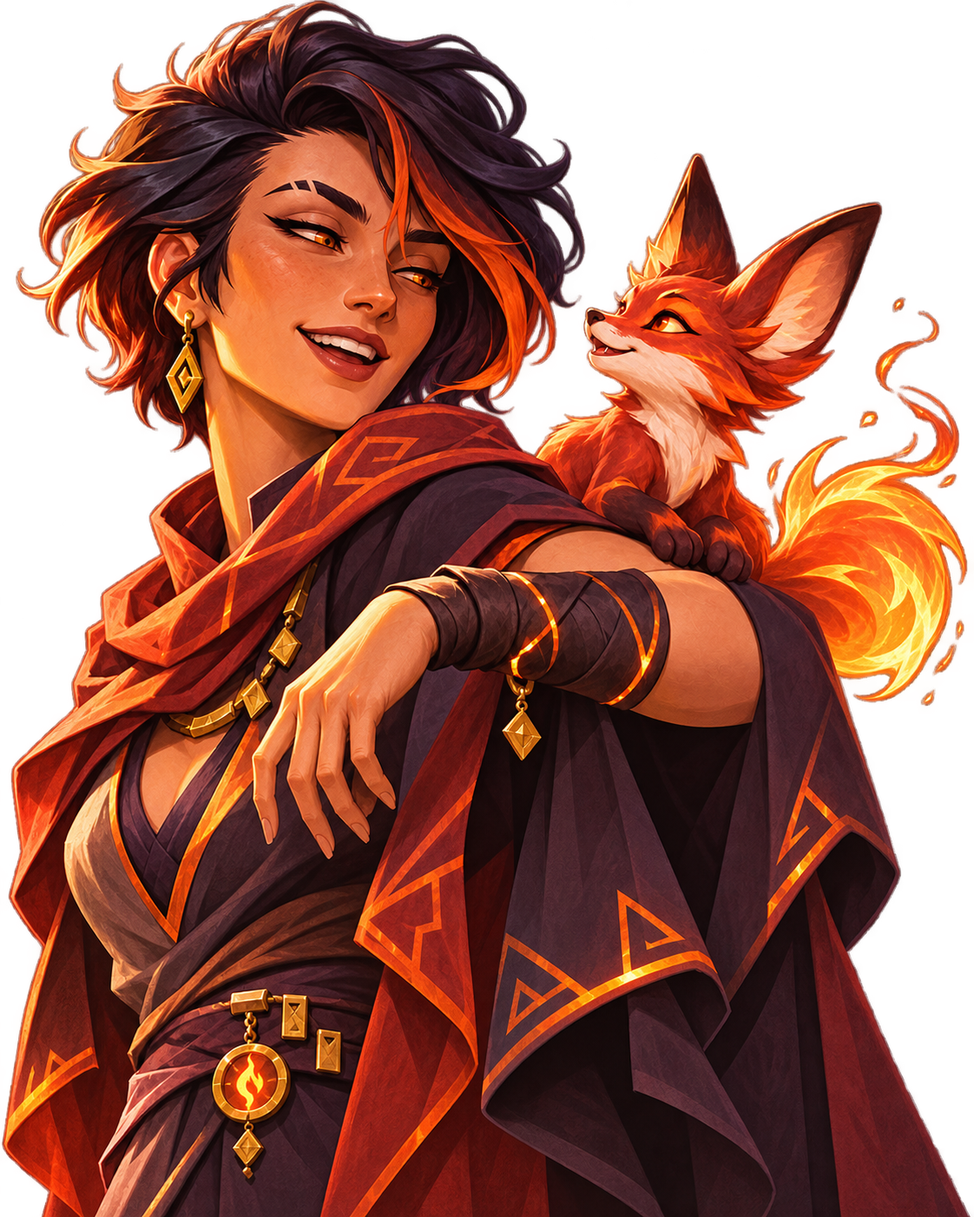
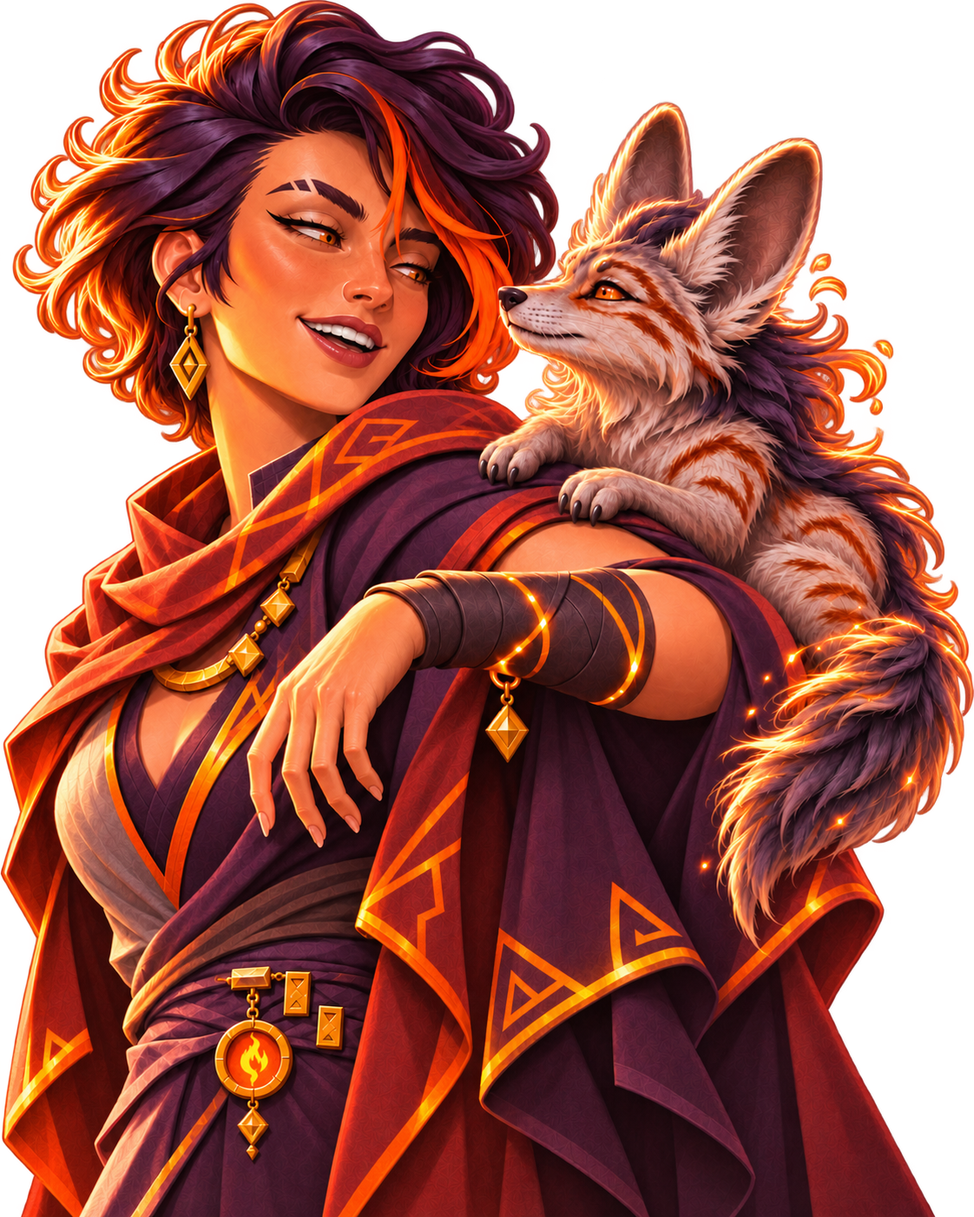
Add ashstride and update Pyrra and Spark story

diff --git a/riftoryn-menu.html b/riftoryn-menu.html
@@ -12,7 +12,7 @@
 <section class="screen" id="codex"><div class="sectionhead"><div><div class="eyebrow">✦ &nbsp; Poznaj świat gry</div><h1 class="title">KODEKS RIFTORYN</h1><p class="subtitle">Bohaterowie, technologie i zasady w jednym miejscu.</p></div></div><div class="codexnav" role="tablist" aria-label="Sekcje kodeksu"><button class="tab active" data-tab="heroes">Bohaterowie</button><button class="tab" data-tab="towers">Wieże</button><button class="tab" data-tab="tree">Drzewko technologii</button><button class="tab" data-tab="statuses">Statusy</button><button class="tab" data-tab="elements">Żywioły i obrażenia</button><button class="tab" data-tab="map">Mapa</button><button class="tab" data-tab="world">Zasady gry</button><button class="tab" data-tab="lore">Historia świata</button><button class="tab" data-tab="worldmap">Mapa świata</button></div><p class="codex-lore-link">✦ <a href="archiwum-riftoryn.html">Archiwum Riftoryn — opowiadania bohaterów →</a></p><p class="codex-lore-link">✦ Poznaj technologię Riftorynu: <a href="splotyt.html">Splotyt — magia i mechanizmy →</a></p><div id="codexContent"></div></section>
 </main><div class="modal" id="loginModal" role="dialog" aria-modal="true" aria-labelledby="loginTitle"><div class="panel modalbox"><div class="eyebrow">✦ &nbsp; Konto gracza</div><h2 class="title" id="loginTitle">WITAJ W RIFTORYN</h2><p>To przykładowy ekran logowania. Wpisana nazwa jest przechowywana tylko w tej przeglądarce; nie tworzymy prawdziwego konta.</p><label for="nickname">Nazwa gracza</label><input id="nickname" maxlength="24" placeholder="Twój pseudonim" autocomplete="nickname"><div class="modalactions"><button class="secondary" id="closeLogin">ANULUJ</button><button class="button" id="saveLogin">KONTYNUUJ</button></div></div></div><script src="riftoryn-bohaterowie.js"></script><script src="riftoryn-trening.js"></script><script src="riftoryn-historie.js"></script><script src="riftoryn-drzewko.js"></script><script src="riftoryn-zywioly.js"></script><script src="riftoryn-lore.js"></script><script src="riftoryn-swiat.js"></script><script>
 const elements=[['Ogień','✹','#ee905e'],['Lód','❄','#8cd8ef'],['Błyskawice','ϟ','#f5ce6c'],['Natura','❧','#91c487'],['Ziemia','◆','#c6a274'],['Światło','✧','#f0dcaa'],['Ciemność','◈','#bc8ce1']];const roles=[['Tank','tank.png'],['Wsparcie','support.png'],['Specjalista','specialist.png'],['Przywoływacz','summoner.png']];const upcoming=[{name:'Miko',role:'Specjalista',element:'Błyskawice',img:'miko-lightning-specialist-v2.png',concept:'One Lucky Bastard: cztery wyniki po 25% — zatrzymanie wieży na 5 s, trwałe wyłączenie w obronie, 50% szansy na pudło do końca rundy albo pechowo +50% szybkości ataku wieży na 5 s. Szczegóły do ustalenia.',defense:'Się Naprawi (propozycja): cztery wyniki po 25% — 50 osłony, +50% szybkości ataku na 5 s, +50% prędkości pocisków na 5 s albo pechowe zatrzymanie wieży na 3 s.'},{name:'Iskar',role:'Tank',element:'Lód',img:'iskar-ice-tank-v2.png'},{name:'Taren',role:'Tank',element:'Błyskawice',img:'taren-lightning-tank.png'},{name:'Orien',role:'Tank',element:'Światło',img:'orien-light-tank-v2.png'},{name:'Solan',role:'Wsparcie',element:'Ogień',img:'solan-fire-support-v2.png'},{name:'Dara',role:'Wsparcie',element:'Ziemia',img:'dara-earth-support.png'},{name:'Nocten',role:'Wsparcie',element:'Ciemność',img:'nocten-darkness-support.png'},{name:'Eron',role:'Specjalista',element:'Natura',img:'eron-nature-specialist-v2.png'},{name:'Kiran',role:'Specjalista',element:'Ziemia',img:'kiran-earth-specialist-v2.png'},{name:'Adrien',role:'Specjalista',element:'Światło',img:'adrien-light-specialist-v4.png',defense:'Specjalista wież: wieży pilotowanej przez Adriena nie można w żaden sposób zatrzymać.'},{name:'Lucen',role:'Specjalista',element:'Światło',img:'lucen-light-specialist.png',passName:'Dziedzictwo Błyskawic',pass:'Lightning Heritage: dodatkowe +25% odporności na obrażenia Błyskawic.',concept:'Propozycja: 105 HP, atak 20, prędkość 5,6 m/s. Pryzmatyczna blokada wyłącza pobliską wieżę na 2,5 s (odnowienie 20 s).',defense:'Propozycja: Świetlny sygnał ujawnia Runnerów w wybranym sektorze na 4 s.'},...[
-{name:'Pyrra',img:'pyrra-fire-summoner.png',element:'Ogień',pet:'lis Iskra',concept:'Lis przechwytuje pocisk i tworzy strefę żaru; w obronie wspiera presję obszarową wieży.'},
+{name:'Pyrra',img:'pyrra-fire-summoner.png',element:'Ogień',pet:'popielec Iskra',concept:'Popielec przechwytuje pocisk i tworzy strefę żaru; w obronie wspiera presję obszarową wieży.'},
 {name:'Eira',img:'eira-ice-summoner.png',element:'Lód',pet:'ryś Szron',concept:'Ryś osłania bohatera i zostawia śliski ślad; w obronie wspiera kontrolę ruchu.'},
 {name:'Volt',img:'volt-lightning-summoner.png',element:'Błyskawice',pet:'sokół Grom',concept:'Sokół przechwytuje pociski i szybko dociera do celu; w obronie pomaga oznaczać Runnerów.'},
 {name:'Ana',img:'anna-nature-summoner-bob-v3.png',element:'Natura',pet:'panda Bob',concept:'Ucieczka: Ana woła Boba i karmi go bambusem, by odnowić część jego HP (propozycja). Obrona: co 30 s Bob zeskakuje z murów, atakuje najbliższego Runnera za 10 bazowych obrażeń Natury i wraca do Any. Podczas ataku jest niezniszczalny i niepowstrzymany; Runnerzy mogą się chronić.'},
@@ -20,7 +20,7 @@ const elements=[['Ogień','✹','#ee905e'],['Lód','❄','#8cd8ef'],['Błyskawic
 {name:'Lumen',img:'lumen-light-summoner.png',element:'Światło',pet:'jeleń Blask',concept:'Jeleń osłania sojusznika barierą; w obronie pomaga wykrywać Runnerów.'},
 {name:'Koneva',img:'konewka-darkness-summoner.png',element:'Ciemność',pet:'kotoperz Patka',concept:'Ucieczka: Patka szybko lata w kółko, skupiając na sobie ogień wieży; podczas manewru ma 75% szansy na uniknięcie obrażeń, po czym wraca do Konevy. Szczegóły i umiejętność obronna wymagają ustalenia.'},
 {name:'Neris',img:'neris-darkness-summoner.png',element:'Ciemność',pet:'kruk Cień',concept:'Kruk przyjmuje część obrażeń dzięki więzi; w obronie utrudnia orientację.'}
-].map(x=>({...x,role:'Przywoływacz'}))];function upcomingCard(role,element,codex=false){const h=upcoming.find(x=>x.role===role&&x.element===element);if(!h)return '<div class="empty"><b>✧</b>wkrótce</div>';const inner=`${h.img?`<img src="assets/heroes/portraits/${h.img}" alt="" onerror="this.hidden=true">`:'<span aria-hidden="true">✧</span>'}<div class="upcoming-content"><b>${h.name.toUpperCase()}</b><small>w przygotowaniu</small></div>`;return codex?`<button type="button" class="empty upcoming" data-upcoming="${h.name}" aria-label="${h.name}, ${h.role}, ${h.element}: zobacz historię">${inner}</button>`:`<div class="empty upcoming" aria-label="${h.name}, ${h.role}, ${h.element}: postać w przygotowaniu">${inner}</div>`}function bioCard(id){const b=window.RIFTORYN_HISTORIE[id];if(!b)return '';return `<section class="bio"><h3>Historia bohatera</h3><h4>POCHODZENIE</h4><p>${b.city}</p><h4>SPECJALIZACJA</h4><p>${b.specialty}</p><h4>HISTORIA</h4><div class="bio-story">${b.story.split(/\n\n/).map(paragraph=>`<p>${paragraph}</p>`).join('')}</div>${b.storyEn?`<details class="bio-story"><summary>English version</summary>${b.storyEn.split(/\n\n/).map(paragraph=>`<p lang="en">${paragraph}</p>`).join('')}</details>`:''}${id==='ana'?`<figure class="bio-comic"><a href="riftoryn-unity/Assets/Resources/Stories/ana-bob.png" target="_blank" rel="noopener" aria-label="Otwórz komiks Any i Boba w pełnym rozmiarze"><img src="riftoryn-unity/Assets/Resources/Stories/ana-bob.png" alt="Komiks o pierwszym spotkaniu Any i Boba, wspólnej burzy i ich przyjaźni" loading="lazy"></a><figcaption>Pierwsze spotkanie Any i Boba · <a href="riftoryn-unity/Assets/Resources/Stories/ana-bob.png" target="_blank" rel="noopener">Otwórz komiks w pełnym rozmiarze</a></figcaption></figure>`:''}${id==='koneva'?`<figure class="bio-comic"><a href="riftoryn-unity/Assets/Resources/Stories/koneva-pati.png" target="_blank" rel="noopener" aria-label="Otwórz komiks Konevy i Pati w pełnym rozmiarze"><img src="riftoryn-unity/Assets/Resources/Stories/koneva-pati.png" alt="Komiks o Konevie, jej kotce Pati i przemianie Pati w kotoperza" loading="lazy"></a><figcaption>Koneva i Pati · <a href="riftoryn-unity/Assets/Resources/Stories/koneva-pati.png" target="_blank" rel="noopener">Otwórz komiks w pełnym rozmiarze</a></figcaption></figure>`:''}${id==='pyrra'?`<figure class="bio-comic"><a href="riftoryn-unity/Assets/Resources/Stories/pyrra-spark.png" target="_blank" rel="noopener" aria-label="Otwórz komiks Pyrry i Iskry w pełnym rozmiarze"><img src="riftoryn-unity/Assets/Resources/Stories/pyrra-spark.png" alt="Komiks o spotkaniu Pyrry i ognistej lisicy Iskry" loading="lazy"></a><figcaption>Pyrra i Iskra · <a href="riftoryn-unity/Assets/Resources/Stories/pyrra-spark.png" target="_blank" rel="noopener">Otwórz komiks w pełnym rozmiarze</a></figcaption></figure>`:''}${id==='eira'?`<figure class="bio-comic"><a href="riftoryn-unity/Assets/Resources/Stories/eira-frost.png" target="_blank" rel="noopener" aria-label="Otwórz komiks Eiry i Szrona w pełnym rozmiarze"><img src="riftoryn-unity/Assets/Resources/Stories/eira-frost.png" alt="Komiks o Eirze, który ratuje rannego rysia Szrona i zdobywa jego zaufanie" loading="lazy"></a><figcaption>Eira i Szron · <a href="riftoryn-unity/Assets/Resources/Stories/eira-frost.png" target="_blank" rel="noopener">Otwórz komiks w pełnym rozmiarze</a></figcaption></figure>`:''}${id==='miko'?`<figure class="bio-comic"><a href="riftoryn-unity/Assets/Resources/Stories/miko.png" target="_blank" rel="noopener" aria-label="Otwórz komiks Miko w pełnym rozmiarze"><img src="riftoryn-unity/Assets/Resources/Stories/miko.png" alt="Komiks o wynalazkach i próbach Miko z błyskawicami" loading="lazy"></a><figcaption>Miko i jego wynalazek · <a href="riftoryn-unity/Assets/Resources/Stories/miko.png" target="_blank" rel="noopener">Otwórz komiks w pełnym rozmiarze</a></figcaption></figure>`:''}${id==='morrak'?`<figure class="bio-comic"><a href="riftoryn-unity/Assets/Resources/Stories/morrak.png" target="_blank" rel="noopener" aria-label="Otwórz komiks Morraka w pełnym rozmiarze"><img src="riftoryn-unity/Assets/Resources/Stories/morrak.png" alt="Komiks o Morraku, który osłania powóz w czasie burzy" loading="lazy"></a><figcaption>Morrak · <a href="riftoryn-unity/Assets/Resources/Stories/morrak.png" target="_blank" rel="noopener">Otwórz komiks w pełnym rozmiarze</a></figcaption></figure>`:''}${['kael','saila','thora'].includes(id)?`<figure class="bio-comic"><a href="riftoryn-unity/Assets/Resources/Stories/${id}.png" target="_blank" rel="noopener" aria-label="Otwórz komiks w pełnym rozmiarze"><img src="riftoryn-unity/Assets/Resources/Stories/${id}.png" alt="Komiks: ${b.name}" loading="lazy"></a><figcaption>${b.name} · <a href="riftoryn-unity/Assets/Resources/Stories/${id}.png" target="_blank" rel="noopener">Otwórz komiks w pełnym rozmiarze</a></figcaption></figure>`:''}<h4>DLACZEGO BIERZE UDZIAŁ W PRÓBACH</h4><p>${b.reason}</p><h4>RODZINA</h4><p>${b.family}</p><p class="warn">${['niva','liora','elira','dara','nocten'].includes(id)?'Historia zatwierdzona na potrzeby PoC.':'Historia jest propozycją do przeglądu.'}</p>${['taren','lucen'].includes(id)?['taren-lucen-ostrzezenie','taren-lucen-rozlaka','taren-lucen-aurel','taren-lucen-spotkanie'].map((image,i)=>`<figure class="bio-comic"><a href="riftoryn-unity/Assets/Resources/Stories/${image}.png" target="_blank" rel="noopener"><img src="riftoryn-unity/Assets/Resources/Stories/${image}.png" alt="Historia Tarena i Lucena, plansza ${i+1}" loading="lazy"></a><figcaption>Historia Tarena i Lucena · ${i+1}/4</figcaption></figure>`).join(''):''}</section>`}function upcomingDetail(h){const id=h.name.toLowerCase();const portrait=h.img?`<div class="portrait"><img src="${root+h.img}" alt="Portret ${h.name}"><div class="portraithead"><p>${h.role} / ${h.element}</p><h2>${h.name}</h2></div></div>`:`<div class="detailbody"><p class="badge">${h.role} / ${h.element} · koncepcja</p><h2>${h.name}</h2></div>`;const summary=h.pet?`<p><strong>Pet-towarzysz:</strong> ${h.pet}</p><p class="desc">${h.concept||''}</p>`:`<p class="desc">Postać dostępna w symulatorze. Pozostałe umiejętności i statystyki są w przygotowaniu.</p>${h.concept?`<p class="desc">${h.concept}</p>`:''}`;return `${portrait}<div class="detailbody">${summary}${rolePassive(h)}${heroPassive(h)}${h.defense?`<div class="ability"><strong>Obrona</strong><p>${h.defense}</p></div>`:''}${bioCard(id)}<p class="warn">Pasywki i wartości wymagają testów.</p></div>`}heroes.push(...upcoming.map(h=>({...h,id:h.name.toLowerCase(),img:h.img||null,conceptOnly:true})));const rolePassiveData={Tank:{icon:'tank.png',name:'Odporność Tanku',description:'Dodatkowe +5% odporności na obrażenia każdego żywiołu.'},Wsparcie:{icon:'support.png',name:'Pomocna dłoń',description:'Leczenie i naprawy wykonywane przez bohatera są o 10% silniejsze.'},Specjalista:{icon:'specialist.png',name:'Skupiony ostrzał',description:'Wieża ręcznie pilotowana przez Specjalistę w fazie obrony otrzymuje +25% szybkości ataku. Premia działa podczas ręcznego sterowania, nie wzmacnia ostrzału automatycznego.'},Przywoływacz:{icon:'summoner.png',name:'Pet — towarzysz',description:h=>`${h.pet||'Pet'} ma własne HP i automatycznie podąża za bohaterem.`}};
+].map(x=>({...x,role:'Przywoływacz'}))];function upcomingCard(role,element,codex=false){const h=upcoming.find(x=>x.role===role&&x.element===element);if(!h)return '<div class="empty"><b>✧</b>wkrótce</div>';const inner=`${h.img?`<img src="assets/heroes/portraits/${h.img}" alt="" onerror="this.hidden=true">`:'<span aria-hidden="true">✧</span>'}<div class="upcoming-content"><b>${h.name.toUpperCase()}</b><small>w przygotowaniu</small></div>`;return codex?`<button type="button" class="empty upcoming" data-upcoming="${h.name}" aria-label="${h.name}, ${h.role}, ${h.element}: zobacz historię">${inner}</button>`:`<div class="empty upcoming" aria-label="${h.name}, ${h.role}, ${h.element}: postać w przygotowaniu">${inner}</div>`}function bioCard(id){const b=window.RIFTORYN_HISTORIE[id];if(!b)return '';return `<section class="bio"><h3>Historia bohatera</h3><h4>POCHODZENIE</h4><p>${b.city}</p><h4>SPECJALIZACJA</h4><p>${b.specialty}</p><h4>HISTORIA</h4><div class="bio-story">${b.story.split(/\n\n/).map(paragraph=>`<p>${paragraph}</p>`).join('')}</div>${b.storyEn?`<details class="bio-story"><summary>English version</summary>${b.storyEn.split(/\n\n/).map(paragraph=>`<p lang="en">${paragraph}</p>`).join('')}</details>`:''}${id==='ana'?`<figure class="bio-comic"><a href="riftoryn-unity/Assets/Resources/Stories/ana-bob.png" target="_blank" rel="noopener" aria-label="Otwórz komiks Any i Boba w pełnym rozmiarze"><img src="riftoryn-unity/Assets/Resources/Stories/ana-bob.png" alt="Komiks o pierwszym spotkaniu Any i Boba, wspólnej burzy i ich przyjaźni" loading="lazy"></a><figcaption>Pierwsze spotkanie Any i Boba · <a href="riftoryn-unity/Assets/Resources/Stories/ana-bob.png" target="_blank" rel="noopener">Otwórz komiks w pełnym rozmiarze</a></figcaption></figure>`:''}${id==='koneva'?`<figure class="bio-comic"><a href="riftoryn-unity/Assets/Resources/Stories/koneva-pati.png" target="_blank" rel="noopener" aria-label="Otwórz komiks Konevy i Pati w pełnym rozmiarze"><img src="riftoryn-unity/Assets/Resources/Stories/koneva-pati.png" alt="Komiks o Konevie, jej kotce Pati i przemianie Pati w kotoperza" loading="lazy"></a><figcaption>Koneva i Pati · <a href="riftoryn-unity/Assets/Resources/Stories/koneva-pati.png" target="_blank" rel="noopener">Otwórz komiks w pełnym rozmiarze</a></figcaption></figure>`:''}${id==='pyrra'?`<figure class="bio-comic"><a href="riftoryn-unity/Assets/Resources/Stories/pyrra-spark.png" target="_blank" rel="noopener" aria-label="Otwórz komiks Pyrry i Iskry w pełnym rozmiarze"><img src="riftoryn-unity/Assets/Resources/Stories/pyrra-spark.png" alt="Komiks o spotkaniu Pyrry i młodego popielca Iskry" loading="lazy"></a><figcaption>Pyrra i Iskra · <a href="riftoryn-unity/Assets/Resources/Stories/pyrra-spark.png" target="_blank" rel="noopener">Otwórz komiks w pełnym rozmiarze</a></figcaption></figure>`:''}${id==='eira'?`<figure class="bio-comic"><a href="riftoryn-unity/Assets/Resources/Stories/eira-frost.png" target="_blank" rel="noopener" aria-label="Otwórz komiks Eiry i Szrona w pełnym rozmiarze"><img src="riftoryn-unity/Assets/Resources/Stories/eira-frost.png" alt="Komiks o Eirze, który ratuje rannego rysia Szrona i zdobywa jego zaufanie" loading="lazy"></a><figcaption>Eira i Szron · <a href="riftoryn-unity/Assets/Resources/Stories/eira-frost.png" target="_blank" rel="noopener">Otwórz komiks w pełnym rozmiarze</a></figcaption></figure>`:''}${id==='miko'?`<figure class="bio-comic"><a href="riftoryn-unity/Assets/Resources/Stories/miko.png" target="_blank" rel="noopener" aria-label="Otwórz komiks Miko w pełnym rozmiarze"><img src="riftoryn-unity/Assets/Resources/Stories/miko.png" alt="Komiks o wynalazkach i próbach Miko z błyskawicami" loading="lazy"></a><figcaption>Miko i jego wynalazek · <a href="riftoryn-unity/Assets/Resources/Stories/miko.png" target="_blank" rel="noopener">Otwórz komiks w pełnym rozmiarze</a></figcaption></figure>`:''}${id==='morrak'?`<figure class="bio-comic"><a href="riftoryn-unity/Assets/Resources/Stories/morrak.png" target="_blank" rel="noopener" aria-label="Otwórz komiks Morraka w pełnym rozmiarze"><img src="riftoryn-unity/Assets/Resources/Stories/morrak.png" alt="Komiks o Morraku, który osłania powóz w czasie burzy" loading="lazy"></a><figcaption>Morrak · <a href="riftoryn-unity/Assets/Resources/Stories/morrak.png" target="_blank" rel="noopener">Otwórz komiks w pełnym rozmiarze</a></figcaption></figure>`:''}${['kael','saila','thora'].includes(id)?`<figure class="bio-comic"><a href="riftoryn-unity/Assets/Resources/Stories/${id}.png" target="_blank" rel="noopener" aria-label="Otwórz komiks w pełnym rozmiarze"><img src="riftoryn-unity/Assets/Resources/Stories/${id}.png" alt="Komiks: ${b.name}" loading="lazy"></a><figcaption>${b.name} · <a href="riftoryn-unity/Assets/Resources/Stories/${id}.png" target="_blank" rel="noopener">Otwórz komiks w pełnym rozmiarze</a></figcaption></figure>`:''}<h4>DLACZEGO BIERZE UDZIAŁ W PRÓBACH</h4><p>${b.reason}</p><h4>RODZINA</h4><p>${b.family}</p><p class="warn">${['niva','liora','elira','dara','nocten'].includes(id)?'Historia zatwierdzona na potrzeby PoC.':'Historia jest propozycją do przeglądu.'}</p>${['taren','lucen'].includes(id)?['taren-lucen-ostrzezenie','taren-lucen-rozlaka','taren-lucen-aurel','taren-lucen-spotkanie'].map((image,i)=>`<figure class="bio-comic"><a href="riftoryn-unity/Assets/Resources/Stories/${image}.png" target="_blank" rel="noopener"><img src="riftoryn-unity/Assets/Resources/Stories/${image}.png" alt="Historia Tarena i Lucena, plansza ${i+1}" loading="lazy"></a><figcaption>Historia Tarena i Lucena · ${i+1}/4</figcaption></figure>`).join(''):''}</section>`}function upcomingDetail(h){const id=h.name.toLowerCase();const portrait=h.img?`<div class="portrait"><img src="${root+h.img}" alt="Portret ${h.name}"><div class="portraithead"><p>${h.role} / ${h.element}</p><h2>${h.name}</h2></div></div>`:`<div class="detailbody"><p class="badge">${h.role} / ${h.element} · koncepcja</p><h2>${h.name}</h2></div>`;const summary=h.pet?`<p><strong>Pet-towarzysz:</strong> ${h.pet}</p><p class="desc">${h.concept||''}</p>`:`<p class="desc">Postać dostępna w symulatorze. Pozostałe umiejętności i statystyki są w przygotowaniu.</p>${h.concept?`<p class="desc">${h.concept}</p>`:''}`;return `${portrait}<div class="detailbody">${summary}${rolePassive(h)}${heroPassive(h)}${h.defense?`<div class="ability"><strong>Obrona</strong><p>${h.defense}</p></div>`:''}${bioCard(id)}<p class="warn">Pasywki i wartości wymagają testów.</p></div>`}heroes.push(...upcoming.map(h=>({...h,id:h.name.toLowerCase(),img:h.img||null,conceptOnly:true})));const rolePassiveData={Tank:{icon:'tank.png',name:'Odporność Tanku',description:'Dodatkowe +5% odporności na obrażenia każdego żywiołu.'},Wsparcie:{icon:'support.png',name:'Pomocna dłoń',description:'Leczenie i naprawy wykonywane przez bohatera są o 10% silniejsze.'},Specjalista:{icon:'specialist.png',name:'Skupiony ostrzał',description:'Wieża ręcznie pilotowana przez Specjalistę w fazie obrony otrzymuje +25% szybkości ataku. Premia działa podczas ręcznego sterowania, nie wzmacnia ostrzału automatycznego.'},Przywoływacz:{icon:'summoner.png',name:'Pet — towarzysz',description:h=>`${h.pet||'Pet'} ma własne HP i automatycznie podąża za bohaterem.`}};
 const individualPassives={iskar:{name:'Lodowa zbroja',description:'Regeneruje 1 punkt osłony na sekundę, maksymalnie do 10 punktów z tej pasywki. Osłona sumuje się z innymi źródłami, ale gdy łączna osłona Iskara przekracza 10, regeneracja pasywki jest wyłączona.'},taren:{name:'Ostatni bastion',description:'Gdy jego HP spadnie poniżej 50%, Taren staje się niewrażliwy na obrażenia przez 2 sekundy. Efekt ma 10-sekundowy cooldown i może ponownie zadziałać, gdy będzie gotowy, a HP Tarena ponownie spadnie poniżej progu.'},orien:{name:'Święta aura · Holy Aura',description:'Aura Oriena oślepia przeciwników i daje Orienowi oraz sojusznikom w promieniu 3 m 10% szansy na uniknięcie otrzymanego ataku.'},solan:{name:'Ciepło wspólnoty',description:'Po użyciu zdolności osłaniającej Solan zyskuje krótką premię do prędkości ruchu, by móc dotrzeć do kolejnego sojusznika.'},dara:{name:'Pewna ręka',description:'Po naprawieniu sojuszniczej wieży jej kolejna naprawa tej samej wieży w krótkim czasie jest silniejsza.'},nocten:{name:'Szept archiwisty',description:'Gdy Nocten wykryje przeciwnika, drużyna przez krótki czas otrzymuje wskazówkę o jego kierunku ruchu, nawet po utracie bezpośredniego widoku.'},miko:{name:'Szczęście sprzyja zuchwałym',description:'Po udanym sabotażu Miko porusza się o 10% szybciej przez 2 sekundy. Pechowy wynik zdolności nie aktywuje premii.'},eron:{name:'Tropiciel szlaku',description:'Po wejściu w pobliże nieodkrytej wieży Eron otrzymuje krótką wskazówkę o jej położeniu; nie ujawnia jej całej drużynie.'},kiran:{name:'Czytanie terenu',description:'Po krótkim bezruchu Kiran wykrywa zagrożenia i pułapki w niewielkim obszarze przed sobą.'},adrien:{name:'Niezłomny operator',description:'Wieża, którą Adrien ręcznie pilotuje, nie może zostać wyłączona ani zatrzymana przez zdolności przeciwnika.'},pyrra:{name:'Żar pod kontrolą',description:'Po otrzymaniu obrażeń od Ognia Pyrra zyskuje na krótko odporność na podpalenie.'},eira:{name:'Spokojny oddech',description:'Spowolnienia ruchu działają na Eirę o 15% słabiej. W obronie jego wieża szybciej odzyskuje zwykłą szybkostrzelność po zakończeniu spowolnienia.'},volt:{name:'Rytm przekaźnika',description:'Po użyciu Q Volt porusza się o 10% szybciej przez 2 sekundy.'},ana:{name:'Opiekuńczy dotyk',description:'Leczenie Any jest silniejsze wobec sojusznika, który ma najmniej HP w zasięgu.'},rokan:{name:'Twardy grunt',description:'Pierwsze bezpośrednie trafienie po rozpoczęciu rundy zadaje Rokanowi o 10% mniej obrażeń.'},lumen:{name:'Uważna obserwatorka',description:'Przeciwnicy wykryci przez Lumen pozostają widoczni dla drużyny o 1 sekundę dłużej; nie wykrywa ich samodzielnie.'},koneva:{name:'Zwinny unik',description:'Po uniknięciu obrażeń Koneva zyskuje krótką premię do prędkości ruchu.'},neris:{name:'Czujny lot',description:'Jej Pet, kruk Cień, automatycznie utrzymuje się około 3 m przed nią wzdłuż trasy. Każde trafienie skierowane w Cień ma 25% szansy na uniknięcie obrażeń.'}};
 function rolePassive(h){const r=rolePassiveData[h.role];if(!r)return '';const description=typeof r.description==='function'?r.description(h):r.description;return `<div class="class-passive"><img src="assets/ui/roles/${r.icon}" alt=""><div><small>BONUS KLASY · ${h.role.toUpperCase()}</small><strong>${r.name}</strong><p>${description}</p></div></div>`}
 function heroPassive(h){const p=individualPassives[h.id]||{name:h.passName||'Pasywka bohatera',description:h.pass||'Opis pasywki w przygotowaniu.'};return `<div class="hero-passive"><strong>PASYWKA BOHATERA · ${p.name}</strong><p>${p.description}</p></div>`}

diff --git a/riftoryn-historie.js b/riftoryn-historie.js
@@ -23,11 +23,11 @@ window.RIFTORYN_HISTORIE = {
   "name": "Pyrra",
   "city": "Żarowisko Vareth",
   "cityEn": "Vareth Emberforge",
-  "specialty": "Przywoływaczka Ognia; towarzyszy jej lisica Iskra",
-  "story": "Wiek w 12 ET: 28 lat.\n\nPyrra dorastała wśród kuźni Vareth, gdzie uczyła się, że ogień wymaga cierpliwości i uważnych rąk. Marzyła o własnym warsztacie, w którym młodzi rzemieślnicy mogliby bezpiecznie poznawać moc żaru. Podczas wyprawy poza miasto gwałtowny deszcz zmusił ją do szukania schronienia, a niewielki płomień przy jej sercu był jedynym źródłem ciepła.\n\nZanim zdążyła odnaleźć drogę, z zarośli wyskoczyła mała lisica i porwała świecący żar. Pyrra ruszyła za nią przez mokry las, poślizgnęła się i upadła. W końcu dotarła do zimnej jaskini, gdzie zwierzę skuliło się wokół płomienia, próbując się ogrzać.\n\nZamiast odebrać lisicy żar, Pyrra usiadła obok i otuliła ją płaszczem. Ogrzewając ją we własnych dłoniach, zauważyła, że płomień odpowiada na obecność zwierzęcia. Gdy lisica odzyskała siły, jej ogon rozbłysł ognistymi smugami, a wokół niej zatańczyły iskry. Zaskoczona Pyrra nadała nowej towarzyszce imię Iskra.\n\nW następnych dniach wspólnie poznawały swoje możliwości. Iskra była ciekawa i niecierpliwa, Pyrra zaś uczyła się panować nad ogniem bez gaszenia energii przyjaciółki. Z czasem ich wspólne zabawy z płomieniem przerodziły się w zaufanie, które pomagało im także poza bezpiecznym schronieniem.\n\nDo Prób wyruszają razem. Pyrra chce udowodnić, że precyzja i samodzielność są równie cenne jak siła, oraz zdobyć środki na warsztat dla młodych rzemieślników. Iskra przypomina jej, że nawet utracony na chwilę płomień może zaprowadzić do nowej przyjaźni.",
+  "specialty": "Przywoływaczka Ognia; towarzyszy jej młody popielec Iskra",
+  "story": "Wiek w 12 ET: 28 lat.\n\nPyrra dorastała wśród kuźni Vareth, gdzie nauczyła się cierpliwości i uważnej pracy z ogniem. Marzy o warsztacie, w którym młodzi rzemieślnicy mogliby bezpiecznie poznawać moc żaru.\n\nPodczas wyprawy poza miasto szła przez deszcz i ćwiczyła ładowanie małego kryształu splotytu, ogrzewając dłonie ogniem. Zaciekawiony bardzo młody popielec podszedł do niej, porwał kryształ i uciekł. Pyrra pobiegła za nim do jaskini, lecz zanim go dogoniła, połknął splotyt.\n\nWokół zwierzęcia pojawiły się ogniste smugi i iskry. Pyrra i mały popielec szybko znaleźli wspólny język, bawiąc się płomieniem. Nazwała go Iskrą; po angielsku jego imię brzmi Spark.\n\nIskra jest jeszcze mały, lecz Pyrra wie, jak duże i silne potrafią być dorosłe popielce. Zastanawia się, czy gdy podrośnie, nie będzie stwarzał zagrożenia dla innych. Chce go dobrze poznać i uczyć bezpiecznego zachowania, choć nie wie jeszcze, jaki będzie jako dorosły.\n\nDo Prób wyruszają razem. Pyrra chce pokazać wartość precyzji i zdobyć środki na warsztat dla młodych rzemieślników.",
   "reason": "Chce zdobyć środki na bezpieczny warsztat dla młodych rzemieślników i pokazać wartość precyzji.",
-  "family": "Szczegóły rodziny Pyrry pozostają do ustalenia; Iskra jest jej bliską towarzyszką.",
-  "storyEn": "Age in 12 AT: 28.\n\nPyrra grew up among the forges of Vareth, learning that fire demands patience and careful hands. She dreamed of a workshop where young craftspeople could safely learn to work with its heat. During a journey beyond the city, heavy rain forced her to seek shelter; a small flame held close to her heart was her only source of warmth.\n\nBefore she could find her way, a little fox darted from the bushes and snatched the glowing ember. Pyrra chased her through the wet forest, slipped and fell. At last she reached a cold cave, where the fox had curled up around the flame, trying to keep warm.\n\nInstead of taking the ember back, Pyrra sat beside the fox and wrapped her in her cloak. As she warmed her in her hands, she noticed the flame answering the animal's presence. When the fox recovered, her tail blazed with fiery trails and sparks danced around her. Astonished, Pyrra named her new companion Spark.\n\nOver the following days they explored their abilities together. Spark was curious and impatient, while Pyrra learned to control fire without dimming her friend's energy. Their games with flame gradually became a bond of trust that helped them beyond the safety of their shelter.\n\nThey now enter the Trials together. Pyrra hopes to prove that precision and independence are as valuable as strength, and to fund a workshop for young craftspeople. Spark reminds her that even a flame briefly lost can lead to a new friendship."
+  "family": "Szczegóły rodziny Pyrry pozostają do ustalenia; Iskra jest jej bliskim towarzyszem.",
+  "storyEn": "Age in 12 AT: 28.\n\nPyrra grew up among the forges of Vareth, where she learned patience and careful work with fire. She dreams of a workshop where young craftspeople can safely learn to work with its heat.\n\nOn a journey beyond the city, she walked through the rain, practicing charging a small splotite crystal and warming her hands with fire. A curious, very young ashstride approached, snatched the crystal and fled. Pyrra chased him into a cave, but before she caught him, he swallowed the splotite.\n\nFiery trails and sparks appeared around him. Pyrra and the young ashstride quickly found common ground, playing with the flames together. She named him Spark.\n\nSpark is still small, but Pyrra knows how large and strong adult ashstrides can grow. She wonders whether he might become a danger to others as he grows. She wants to understand him and teach him to behave safely, though she does not yet know what he will be like as an adult.\n\nThey set out for the Trials together. Pyrra hopes to demonstrate the value of precision and earn funds for a workshop for young craftspeople."
 },
   "koneva": {
   "name": "Koneva",

diff --git a/RIFTORYN_GDD.md b/RIFTORYN_GDD.md
@@ -171,7 +171,7 @@ Przywoływacz ma dwa pełne zestawy statystyk: własne oraz swojego peta. Przywo
 | Kiran | Specjalista / Ziemia | 115 | 20 | 5,5 | — | — | — | — |
 | Adrien | Specjalista / Światło | 105 | 20 | 5,7 | — | — | — | — |
 | Lucen | Specjalista / Światło (alternatywa) | 105 | 20 | 5,6 | — | — | — | — |
-| Pyrra | Przywoływacz / Ogień | 60 | 8 | 5,2 | Lis Iskra | 65 | 12 | 6,0 |
+| Pyrra | Przywoływacz / Ogień | 60 | 8 | 5,2 | Popielec Iskra | 65 | 12 | 6,0 |
 | Eira | Przywoływacz / Lód | 60 | 8 | 5,2 | Ryś Szron | 85 | 14 | 5,5 |
 | Volt | Przywoływacz / Błyskawice | 60 | 8 | 5,4 | Sokół Grom | 55 | 10 | 7,0 |
 | Ana | Przywoływacz / Natura | 60 | 8 | 5,1 | Panda Bob | 150 | 10 | 3,8 |
@@ -306,7 +306,7 @@ Wszystkie poniższe rozdziały są scalone do jednego dokumentu. Ich oznaczenia 
 
 **Siedem koncepcji — nazwy i zdolności robocze:**
 
-- **Ogień — Pyrra i lis Iskra:** lis przechwytuje pocisk i tworzy krótką strefę żaru; w obronie pomaga wieży wywierać presję obszarową.
+- **Ogień — Pyrra i popielec Iskra:** popielec przechwytuje pocisk i tworzy krótką strefę żaru; w obronie pomaga wieży wywierać presję obszarową.
 - **Lód — Eira i ryś Szron:** ryś zasłania bohatera i zostawia śliski ślad; w obronie wzmacnia kontrolę ruchu w pobliżu wieży.
 - **Błyskawice — Volt i sokół Grom:** sokół szybko dociera do wskazanego miejsca i przechwytuje pocisk; w obronie pomaga oznaczyć cel dla operatora.
 - **Natura — Ana i panda Bob:** panda osłania Anę oraz wskazanego sojusznika; w obronie wspiera wieżę ochroną lub kontrolą obszaru. Portret przedstawia Anę z pełnowymiarowym Bobem.
@@ -325,8 +325,8 @@ Wszystkie poniższe rozdziały są scalone do jednego dokumentu. Ich oznaczenia 
 
 [USTALONE] Wspólny kierunek nowych portretów bohaterów: pionowy obraz 4:5 z przezroczystym tłem, bez tekstu i znaków wodnych. Tło dobieramy osobno w interfejsie, tak aby pasowało do postaci i zachowało spójność gry; nie jest ono częścią pliku portretu. Istniejące portrety z tłem pozostają w użyciu do czasu ich osobnego przygotowania. Kadr od piersi w górę lub szerszy, stylizowana gra fantasy, ręcznie malowane światło i delikatna geometryczna faktura materiałów; wygląd zgodny z dotychczasowymi portretami Riftoryn. Każda postać ma odmienną pozę, sylwetkę i rysy. Pet jest rozpoznawalny, lecz nie zasłania twarzy. Ana i Bob mają osobny portret inspirowany zdjęciem referencyjnym.
 
-**Pyrra — Ogień / lis Iskra**
-> Stylized fantasy character selection portrait, adult female fire summoner, angular heart-shaped face, warm olive skin, short asymmetrical black hair with a copper streak, narrow amber eyes, an old notch in one eyebrow. In a lively three-quarter profile, she looks over her shoulder toward a small ember-red fox perched on her raised forearm. Lean silhouette, layered charcoal-and-rust robes, subtle glowing ember seams, small brass charms. The fox has distinct ears and a softly glowing tail. Firelight warms one side of her face. No large armor, no braid, no text. [Wspólny format].
+**Pyrra — Ogień / popielec Iskra**
+> Stylized fantasy character selection portrait, adult female fire summoner, angular heart-shaped face, warm olive skin, short asymmetrical black hair with a copper streak, narrow amber eyes, an old notch in one eyebrow. In a lively three-quarter profile, she looks over her shoulder toward a very young ashstride perched on her shoulder. Lean silhouette, layered charcoal-and-rust robes, subtle glowing ember seams, small brass charms. The ashstride has large ears, ash-beige fur with rust-red stripes, a dark mane and a softly glowing tail. Firelight warms one side of her face. No large armor, no braid, no text. [Wspólny format].
 
 **Eira — Lód / ryś Szron**
 > Stylized fantasy character selection portrait, mature male ice summoner, long narrow face, pale weathered skin, close-cropped silver hair, one clouded eye and a prominent hooked nose, clean-shaven. Calm downward gaze, body angled sideways, one hand resting on the shoulder of a pale tuft-eared lynx beside him. Tall slender silhouette, deep blue layered coat with fur collar and translucent frost accents, small ice crystals on the lynx's fur. Quiet, introspective mood. No helmet, no scars shared with other heroes, no text. [Wspólny format].

diff --git a/RIFTORYN_HISTORIE_BOHATEROW_DO_ZATWIERDZENIA.md b/RIFTORYN_HISTORIE_BOHATEROW_DO_ZATWIERDZENIA.md
@@ -439,7 +439,7 @@ W Próbach wykorzystuje szermierkę i wiedzę o mechanizmach, aby wspierać ekip
 
 Pyrra dorastała w kuźniach Vareth, marząc o warsztacie, w którym młodzi rzemieślnicy mogliby bezpiecznie uczyć się pracy z ogniem. Chciała udowodnić, że precyzja jest równie cenna jak siła.
 
-Podczas ulewy mała lisica porwała jej żar i uciekła do jaskini. Pyrra pobiegła za nią, lecz widząc, jak zwierzę próbuje się ogrzać, nie odebrała płomienia. Otuliła lisicę, a kiedy jej ogon rozbłysł, nazwała ją Iskrą. Wspólne ćwiczenia wymagały cierpliwości: Pyrra musiała nauczyć się chronić przyjaciółkę, nie gasząc jej ciekawości.
+Podczas ulewy Pyrra ćwiczyła ładowanie splotytu i ogrzewała dłonie ogniem. Bardzo młody popielec porwał kryształ, uciekł do jaskini i go połknął. Pojawiły się wokół niego ogniste smugi; szybko zaprzyjaźnił się z Pyrrą, która nazwała go Iskrą. Pyrra wie, jak silne są dorosłe popielce, i zastanawia się, czy Iskra nie zagrozi innym, gdy podrośnie. Chce go poznać i nauczyć bezpiecznego zachowania.
 
 W Próbach walczą o środki na warsztat. Pyrra nadal chce pokazać samodzielność, ale wie już, że przyjęcie pomocy Iskry nie umniejsza jej umiejętności.
 
@@ -965,7 +965,7 @@ In the Trials he uses fencing and engineering to support relay crews. He still e
 
 Pyrra grew up among Vareth's forges, dreaming of a safe workshop for young craftspeople and hoping to prove precision mattered as much as strength.
 
-During heavy rain a little fox stole her ember and fled into a cave. Seeing the animal trying to keep warm, Pyrra wrapped her in a cloak instead of taking the flame back. The fox's tail blazed, and Pyrra named her Spark. Their practice required patience: Pyrra learned to protect her friend without suppressing her curiosity.
+During a downpour Pyrra practiced charging splotite and warmed her hands with fire. A very young ashstride snatched the crystal, fled into a cave and swallowed it. Fiery trails appeared around him; he quickly befriended Pyrra, who named him Spark. Knowing how strong adult ashstrides can be, Pyrra wonders whether Spark may become a danger to others as he grows. She wants to understand him and teach him to behave safely.
 
 They enter the Trials to fund the workshop. Pyrra still values independence, but accepting Spark's help does not diminish her skill.
 

diff --git a/world_history.md b/world_history.md
@@ -42,6 +42,12 @@ Strony wyznaczają uczestników, którzy mogą tworzyć mieszane drużyny. Bogat
 
 Akcja gry rozpoczyna się w 12 ET, piętnaście lat po Nocy Zgasłych Wież (3 PT / 3 BT; 12 ET / 12 AT). Rozbieżności w rejestrach i spór o ograniczenia wydobycia dzielą miasta oraz władców. Gdy obie strony zaczynają szykować straże, sygnatariusze wybierają wyjątkowe Igrzyska zamiast kolejnej wojny: ich wynik wskaże jeden z dwóch wcześniej wynegocjowanych modeli zarządzania.
 
+## Popielec (Ashstride)
+
+Popielec to smukły, długonogi drapieżnik i padlinożerca popielnych obszarów Riftorynu, przystosowany do biegu oraz gorącego, suchego terenu. Ma duże uszy, popielatobeżową sierść z rdzawymi pręgami i ciemną grzywę. Dorosłe osobniki są znacznie większe od bardzo młodej Iskry, towarzysza Pyrry; żyją samotnie, w parach lub małych grupach.
+
+Iskra połknął splotyt naładowany przez Pyrrę i pojawiła się wokół niego ognista energia. Nie ustalono, czy inne popielce także potrafią w ten sposób korzystać z ładunku. Pyrra obawia się, że gdy Iskra dorośnie, może stwarzać zagrożenie dla innych; jego przyszłe zachowanie pozostaje otwarte.
+
 ## Splotyt i zależność krain
 
 ### Przed wojną

diff --git a/RIFTORYN_PROPOZYCJE_MODELOWANIA_POSTACI.md b/RIFTORYN_PROPOZYCJE_MODELOWANIA_POSTACI.md
@@ -56,7 +56,7 @@ Brakuje kart modelowania siedmiu bohaterów: Varek, Eron, Kiran, Morven, Volt, R
 
 ## Pyrra i Iskra / Spark — nowa referencja
 
-- [Pyrra i Spark — arkusz do przyszłego modelowania](assets/heroes/modeling-concepts/pyrra-spark.png). To ilustracyjna referencja, a nie gotowy model 3D. Iskra to polskie imię lisicy; Spark jest angielskim odpowiednikiem.
+- [Pyrra i Spark — arkusz do przyszłego modelowania](assets/heroes/modeling-concepts/pyrra-spark.png). To wcześniejsza ilustracyjna referencja, a nie gotowy model 3D; wygląd Sparka wymaga dostosowania do [karty popielca](assets/heroes/modeling-concepts/ashstride-popielec.png). Iskra to polskie imię młodego samca, Spark jest angielskim odpowiednikiem.
 - Pyrra: ciemne włosy z rudymi pasmami, warstwowy czerwono-fioletowy płaszcz i złote ozdoby. Arkusz proponuje 168–170 cm wzrostu.
 - Iskra / Spark: mały lis ognisty o dużych uszach i płomiennym ogonie; proponowana wysokość w kłębie 28–32 cm.
 - Widoki, mimika, pozy, podział stroju i orientacyjne budżety są punktem wyjścia do weryfikacji przed modelowaniem. Wydajność, proporcje i animacje wymagają testów w kamerze gry.
